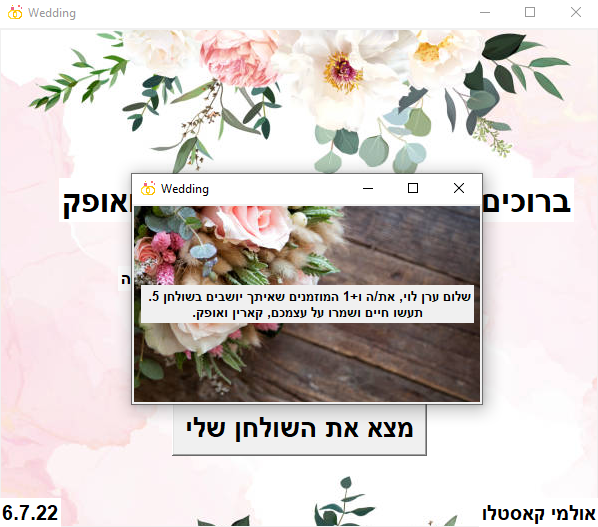
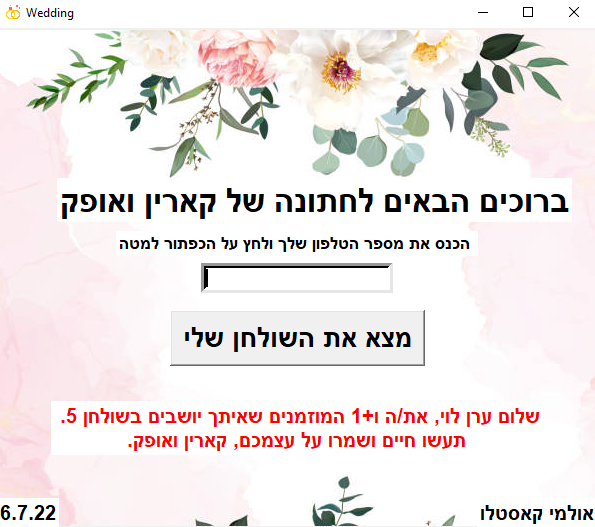
update the project and making the output message to be as a Label and not as messageinfo. Update also the pictures in readme

diff --git a/sitting.py b/sitting.py
@@ -61,31 +61,38 @@ class Sitting:
 
         tele_label = Label(win, text="הכנס את מספר הטלפון שלך ולחץ על הכפתור למטה ",
                            font="SuezOne 13 bold", bg="#FFFFFF")
-        tele_label.place(relx=0.5, rely=0.5, anchor='center')
+        tele_label.place(relx=0.5, rely=0.43, anchor='center')
 
         input_telephone = Entry(win, bg="white", width=20, borderwidth=5, font="bold")
-        input_telephone.place(relx=0.5, rely=0.6, anchor='center')
+        input_telephone.place(relx=0.5, rely=0.5, anchor='center')
         input_telephone.focus()
+
+        message_to_guest = Label(win, text="", font="SuezOne 15 bold", bg="gray51", fg="red")
+        message_to_guest.place(relx=0.5, rely=0.8, anchor='center')
+        message_to_guest.config(bg="#FFFFFF")
 
         # a function that extract the data from excel file
         data_dict = self.extract_data()
 
         button_start = Button(win, text="מצא את השולחן שלי", font="SuezOne 20 bold",
-                              command=lambda: self.find_table(input_telephone.get(), input_telephone, data_dict))
+                              command=lambda: self.find_table_new(input_telephone.get(), input_telephone, data_dict,
+                                                                  message_to_guest))
 
         # If you press enter or press the button the function will work
-        win.bind('<Return>', lambda event: self.find_table(input_telephone.get(), input_telephone, data_dict))
+        win.bind('<Return>',
+                 lambda event: self.find_table_new(input_telephone.get(), input_telephone, data_dict,
+                                                                  message_to_guest))
 
-        button_start.place(relx=0.5, rely=0.8, anchor='center')
+        button_start.place(relx=0.5, rely=0.62, anchor='center')
 
-    def find_table(self, input_tele_str, input_telephone, data_dict):
+    def find_table_new(self, input_tele_str, input_telephone, data_dict, message_to_guest):
         global full_name, number_approve, table_number
 
         input_telephone.delete(0, END)
         telephone_guest = input_tele_str
-        # check input for numbers only and in the right length
+        # check input for numbers only and in the correct length - 10
         if not telephone_guest.isdigit():
-            messagebox.showwarning("weeding", "הטלפון לא מורכב רק ממספרים, נסה שנית")
+            messagebox.showwarning("weeding", "הטלפון לא מורכב רק ממספרים, נסה שוב")
         elif not len(telephone_guest) == 10:
             messagebox.showwarning("weeding", "מספר הטלפון קצר מדי, נסה שוב")
 
@@ -95,52 +102,16 @@ class Sitting:
         table_number = data_dict[telephone_guest][4]
 
         if number_of_invites == 1:
-            self.custom_messbox_as_win()
-        elif number_of_invites > 1:
-            self.custom_messbox_as_win()
-
-    def custom_messbox_as_win(self):
-
-        global bg_, message_win, icon
-
-        message_win = Toplevel(win)
-        message_win.title("Wedding")
-
-        # Set the screen in the middle
-        screen_width = message_win.winfo_screenwidth()
-        screen_height = message_win.winfo_screenheight()
-
-        x = (screen_width / 2) - (250 / 2)
-        y = (screen_height / 2) - (150 / 2)
-
-        message_win.geometry(f'{350}x{200}+{int(x)}+{int(y)}')
-
-        # icon is a global variable
-        message_win.iconphoto(False, icon)
-
-        # set a background image on all of the window
-        # Add image file
-        bg_ = PhotoImage(file="files/background/flower.png")
-
-        # Create Canvas
-        canvas1 = Canvas(message_win, width=250, height=150)
-
-        canvas1.pack(fill="both", expand=True)
-
-        # Display image
-        canvas1.create_image(45, 1, image=bg_, anchor="center")
-
-        # If only one person is attending show this message
-        if number_approve == 1:
             message_1 = f" .שלום {full_name}, מספר השולחן שלך הוא {table_number}\n" \
+                        f".תעשה חיים ושמור על עצמך, קארין ואופק"
+            message_to_guest.config(text=message_1)
+            # After 7.5 sec the text will disappear
+            win.after(10000, lambda: message_to_guest.config(text=""))
+        elif number_of_invites > 1:
+            message_1 = f" .שלום {full_name}, את/ה ו+{number_approve - 1} המוזמנים שאיתך יושבים בשולחן {table_number}\n" \
                         f".תעשו חיים ושמרו על עצמכם, קארין ואופק"
-            label = Label(message_win, text=message_1, font="SuezOne 10 bold")
-            label.place(relx=0.5, rely=0.5, anchor='center')
-        else:  # more then one guest arrives
-            message_2 = f" .שלום {full_name}, את/ה ו+{number_approve - 1} המוזמנים שאיתך יושבים בשולחן {table_number}\n" \
-                        f".תעשו חיים ושמרו על עצמכם, קארין ואופק"
-            label_2 = Label(message_win, text=message_2, font="SuezOne 10 bold")
-            label_2.place(relx=0.5, rely=0.5, anchor='center')
+            message_to_guest.config(text=message_1)
+            win.after(10000, lambda: message_to_guest.config(text=""))
 
     def extract_data(self) -> dict:
         '''
